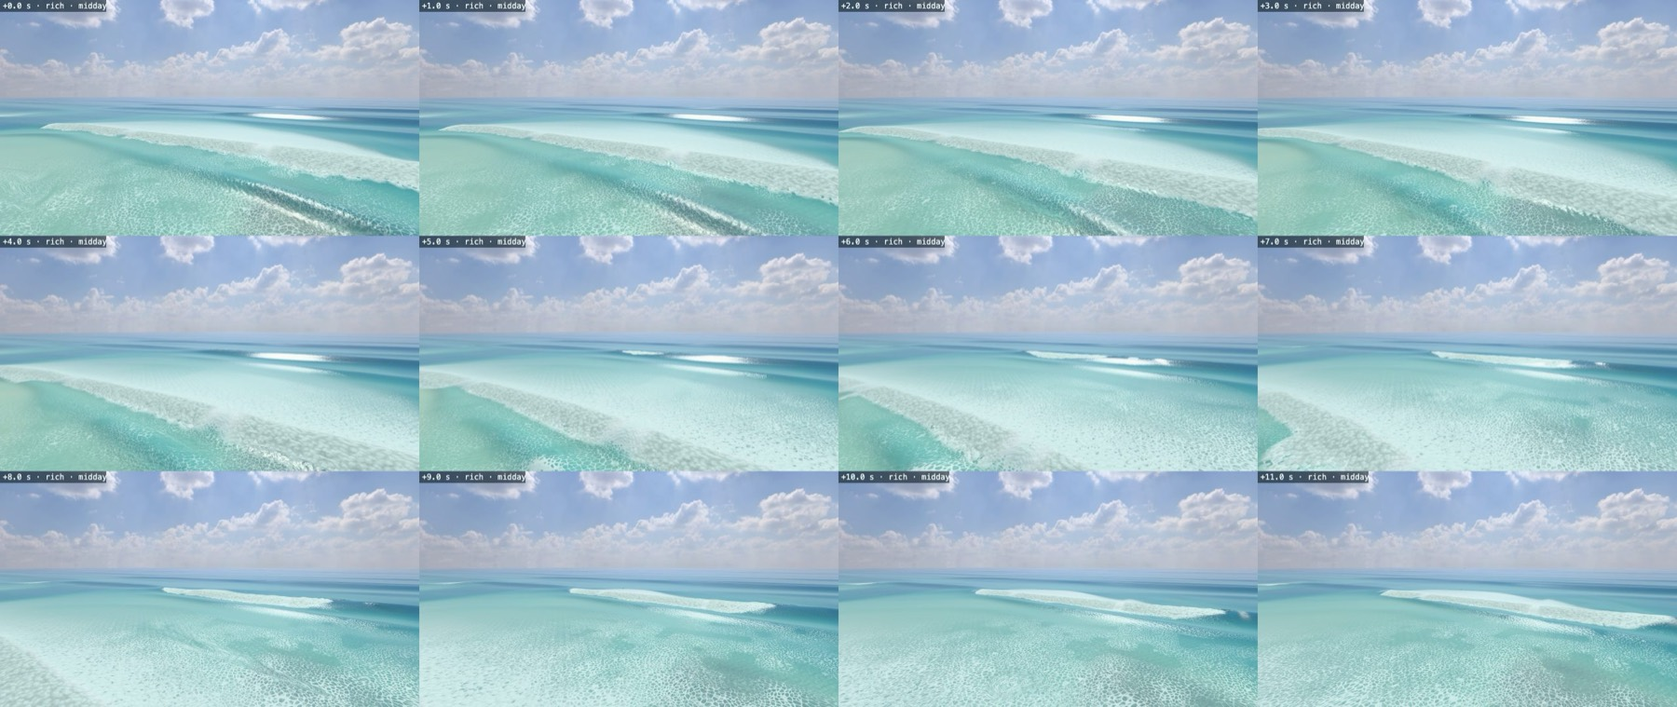
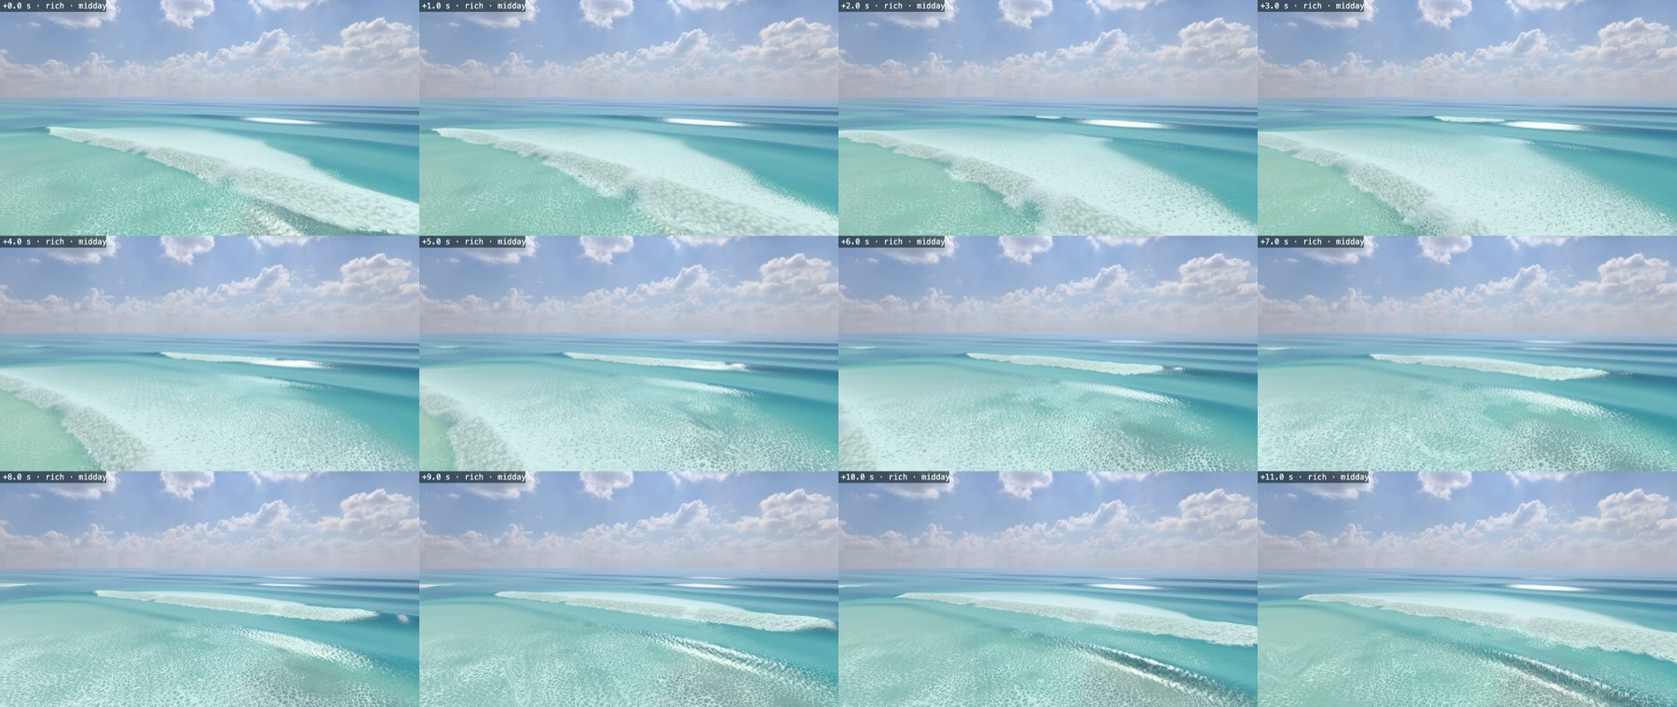
docs(canyon-b): the notes: frame by frame (one line into the bowl on 39 % of Medium's waves and 65 % of Big's, ξb 0.52–0.64 on the bowl, plunging over 20 m at Medium and 25–30 m at Big, spilling at Small), crests and health over 600 s, the catch against main, the cost (no second CFL substep), the st

diff --git a/docs/research/canyon-b-2026-11-01/README.md b/docs/research/canyon-b-2026-11-01/README.md
@@ -23,9 +23,13 @@ Switch: `?canyonBed=old` is main's Canyon at 376d9cd4, byte for byte. Online roo
   - steepest faces of 21–26°, against 14–21° on the arm;
   - ξb of 0.5 or more in 57–87 % of them, against 0–7 % on the arm.
 - **It plunges over 20 m at Medium and 25–30 m at Big** (u 60/65 to 85/95 from the tip). The owner asked for 15–25 m.
-- **The catch at the start** is unchanged: the bar's tip, the take-off and the start did not move. CATCH_PLACEHOLDER
-- **Crests and health over 600 s:** CREST_PLACEHOLDER
-- **Cost:** COST_PLACEHOLDER
+- **The catch at the start** is about main's: the bar's tip, the take-off and the start did not move. The probe's
+  riders caught 35 of 52 set tries on B and 39 of 52 on main (Medium, 2 seeds; Big, 1).
+- **Crests and health over 600 s:** the edge chevrons are main's; the crests are straighter where the reef was, and
+  bend over the bowl near the beach. More crests read two-sided in the inner band (6 % at Medium, 11 % at Big), where
+  main's report counted few whole crests; open. The water stays finite and slower than main's.
+- **Cost:** B's CPU step is about a third cheaper than main's Canyon on average (83 against 127 ms at Medium, stage 2,
+  this machine): its slower water never needs the solver's second CFL substep.
 - **The readout** gives the up-coast peak as "Spilling peak into a plunging reef bowl, left …° and right …°". The bowl's
   ξb at its own take-off is 0.56, 0.58 and 0.56 at Small, Medium and Big; the peak's tip reads 0.20–0.21, spilling.
 - **Other spots are byte-identical**, and `?canyonBed=old` is main's Canyon: the hashes and values match (below).
@@ -43,8 +47,9 @@ The consult is logged in `docs/research/water-physics/consult-log.md`.
   further out for each 0.1 m.
 - So a bowl can be on time for one wave height only. The advisor tuned it to the smallest wave that breaks on it
   (about 1.2 m), so the bowl never breaks before the peel arrives.
-- At Medium the bowl backs off about 1–3 s before it pitches, at Big 5–9 s. The alternative is to move it 10 m
-  seaward, so that Medium's sets are on time and its smaller waves 1–2 s early. That is the owner's call.
+- So bigger waves reach the bowl early: by the advisor's estimate the peel arrives 1–3 s before the bowl pitches at
+  Medium and 5–9 s before at Big, and the wave backs off meanwhile. The alternative is to move the bowl 10 m seaward, so
+  that Medium's sets are on time and its smaller waves 1–2 s early. That is the owner's call.
 
 **The bed** (`src/wave/Bathymetry.ts`: `CANYON`'s `reef` and `bowl*` keys, and `canyonBarDepth`'s `bowlProfile`):
 - **No reef terrace.**
@@ -159,22 +164,118 @@ one: it never vanishes for a frame and its end never jumps more than 6 m.
   - Big: u 60–85, **25 m** (seed 1), and u 65–95, **30 m** (seed 2), where the bowl's back-off still plunges.
   - Past u 95 the few onsets are the beach's 1:15 face in the channel's lee, not the bowl.
 
+**Small** (seed 1, `runs/small-s1.txt`): Small's waves, 1.1–1.35 m high at the bowl, break late, on its crest and top, and
+mostly spill.
+- One line reaches the bowl on 2 of 11 waves (u 55), its middle on 1 and its end on none.
+- The bowl breaks by itself on 6 waves, in lines of about 21 m.
+- Its onsets lie 1.20–1.26 m deep, on its crest and top: faces 22–25°, ξb 0.28–0.44 (19–32 % at 0.5 or more).
+- So at Small the up-coast peak is a spilling peak, and the bowl a small spilling section.
+
+**The drawn curl on the bowl** (`SpillingCurl`, the spilling lip the bowl draws with the tube off).
+- Each column's curl is sized by the bed it climbs at the sea's breaker depth h_b: 1.59, 2.25 and 3.43 m at Small,
+  Medium and Big.
+- At Big that depth lies seaward of the bowl's 3.0 m platform, on the bar's 1:50. The bowl's columns drew the bar's
+  0.23 H, though its waves break on the face.
+- Now the bowl's columns are sized no deeper than 0.2 m above the platform (`BOWL_FACE_BELOW_PLATFORM`, as the readout's
+  bowl take-off; `SpillingCurlOptions.breakerDepthAt`).
+- The curl stands 0.40 H over the whole bowl (u 70–85) at Medium and at Big. It is 0.23–0.25 H on the arm before it,
+  growing over the ramp. Small and Medium are unchanged; so are the other spots and `?canyonBed=old`.
+
 ## Crests and health (600 s; `scripts/crest-angle-report.ts`, seed 1, 64 components)
 
-CREST_SECTION_PLACEHOLDER
+`crests.txt`; main's are canyon-beach-break's `crests.txt` (its layout is `?canyonBed=old`'s). |angle| p90, °, by band
+across shore from the take-off: seaward of it; its 30 m; inside to halfway to the beach; the rest. Against the Beach's p90
+(2.6, 8.4, 10.4, 11.5°; its edge chevron 2 × p90). Station groups: the open water; the up-coast peak's −x arm (x −165 to
+−120); its +x arm, and on B the bowl (x −105 to −15; main's to −45); main's reef (x −30 to 45) or B's channel (x 0); the
+down-coast peak's arms (x 75–120 / 135–165).
+
+| Medium: main → B | Beach | Open | Up peak, −x arm | Up peak, +x arm (B: and bowl) | Reef → channel | Down peak, arms | Edge chevron −x / +x |
+| --- | --- | --- | --- | --- | --- | --- | --- |
+| seaward | 2.6 | 5.1 → 5.3 | 7.9 → 7.8 | 8.4 → 7.6 | 8.0 → 6.4 | 6.2 / 5.4 → 5.7 / 5.4 | 9.0 / 7.3 → 9.1 / 7.0 |
+| take-off | 8.4 | 8.7 → 7.2 | 11.2 → 11.5 | 13.1 → 10.7 | 16.7 → 7.1 | 12.9 / 6.1 → 6.8 / 5.9 | 13.7 / 7.4 → 12.9 / 6.9 |
+| inside | 10.4 | 16.6 → 14.7 | 19.9 → 19.8 | 21.4 → 18.1 | 25.6 → 14.8 | 23.5 / 14.3 → 16.5 / 13.6 | 21.4 / 20.5 → 22.3 / 19.3 |
+| inner | 11.5 | 17.6 → 15.2 | 23.8 → 23.6 | 20.6 → 25.2 | 30.4 → 15.9 | 20.9 / 19.8 → 20.9 / 19.0 | 23.1 / 23.8 → 22.3 / 21.2 |
+
+| Big: main → B | Beach | Open | Up peak, −x arm | Up peak, +x arm (B: and bowl) | Reef → channel | Down peak, arms | Edge chevron −x / +x |
+| --- | --- | --- | --- | --- | --- | --- | --- |
+| seaward | 2.6 | 5.0 → 5.3 | 8.0 → 8.1 | 7.1 → 6.8 | 6.2 → 6.4 | 5.8 / 4.8 → 5.8 / 4.8 | 11.6 / 6.4 → 11.5 / 6.4 |
+| take-off | 8.4 | 5.0 → 5.7 | 7.0 → 7.3 | 9.4 → 7.3 | 10.1 → 6.9 | 7.3 / 5.4 → 6.4 / 5.1 | 8.2 / 5.6 → 9.2 / 5.5 |
+| inside | 10.4 | 9.6 → 8.8 | 11.5 → 9.9 | 16.7 → 10.6 | 17.6 → 8.4 | 14.3 / 8.1 → 10.4 / 8.1 | 14.3 / 10.6 → 15.5 / 10.8 |
+| inner | 11.5 | 12.8 → 12.9 | 20.3 → 21.3 | 19.7 → 23.6 | 24.5 → 16.5 | 20.0 / 17.5 → 17.0 / 17.5 | 20.6 / 19.7 → 21.5 / 19.6 |
+
+- **The edge chevrons are main's** at both sizes (within 1°). Inside the take-off they are within the Beach's 2 × p90
+  (16.8, 20.8, 23°) but for Medium's −x edge in the inside band, 22.3° (main's 21.4°).
+- **With the reef gone, the crests are straighter** from the take-off line to halfway to the beach: the channel reads
+  7–15° p90 where main's reef read 10–26°, and the up-coast peak's +x arm 7–18° against main's 9–21°.
+- **Near the beach, over the bowl, they bend more:** the +x arm and bowl group reads 25.2° at Medium and 23.6° at Big in
+  the inner band, against main's 20.6 and 19.7° there. The bowl breaks, and its broken crest lags the water either side,
+  as main's reef did (its 30.4 and 24.5°).
+- **Crests from two sides** (the outer thirds of the window leaning opposite ways, each past 5°):
+  - seaward of the take-off line and inside it, 0–6 a band, as main's (Medium 1 of 800, 0 of 135, 1 of 235; Big 6 of
+    526, 1 of 130, 0 of 380);
+  - **in the inner band, more than on main:** 12 of 202 at Medium and 34 of 320 at Big, against main's 0 of 0 and 3 of
+    112. Main's report followed few whole crests across the window there; B's follows many more.
+  - The outer thirds' signed medians are near main's: Medium −8.6 / +1.6° (main −7.6 / +1.0°), Big −5.6 / +1.4° (main
+    −6.1 / −0.5°). So the typical crest's shape near the beach is main's, with the +x third leaning a little more.
+  - Not resolved here: whether the extra two-sided crests come from the channel (the 5 m floor where main's reef was)
+    or were there on main unseen. An open item for the owner's eye (the shot list).
+- **Health over the 600 s:**
+  - Medium: the fastest water 4.94 m/s (main 7.18); no Froude cap; volume 0.50 % (main 0.58 %); finite.
+  - Big: 7.01 m/s (main 8.42); 4 Froude caps, none in water (main none); volume −0.33 % (main −0.46 %); finite.
 
 ## The start and the catch
 
 **The take-off and the start did not move.** The up-coast bar's tip and its −x arm are unchanged, value for value:
 - `CANYON_TAKE_OFF_DEPTH` and `CANYON_RIDE_LINEUP` are as on main;
 - the starts lie 103, 134 and 183.5 m from the waterline at Small, Medium and Big;
-- so `SWELL_SURF.canyon` was not re-measured (the faces at the take-off are the same water).
+- so `SWELL_SURF.canyon` was not re-measured: the set faces at the start are within 0.02 m of main's (below).
 
-CATCH_SECTION_PLACEHOLDER
+**The catch** (`docs/research/canyon-catch-2026-10-29/catch-probe.ts --strokes feather`, B and `--bed old` on this
+branch; headless riders paddling for the waves from the default start, as canyon-catch; `runs/catch-*.txt`). Each cell:
+rides out of the tries. A ride is standing at least 2 s on the face ahead of the crest. The misses are all "no cue" or
+"left on the crest": no rider fell or was caught by white water on either bed.
+
+**Medium** (start 9 m out, 2.68 m deep, 134 m from the waterline; seeds 1 and 2 pooled):
+
+| Script | Sets: B | Sets: main | All waves: B | All waves: main |
+| --- | --- | --- | --- | --- |
+| good | 5 of 8 | 6 of 8 | 7 of 23 | 8 of 23 |
+| early | 6 of 8 | 7 of 8 | 9 of 23 | 9 of 23 |
+| late | 5 of 8 | 5 of 8 | 7 of 23 | 7 of 23 |
+| lift | 5 of 8 | 6 of 8 | 7 of 23 | 8 of 23 |
+
+**Big** (start 3 m out, 3.67 m deep, 183.5 m; seed 1):
+
+| Script | Sets: B | Sets: main | All waves: B | All waves: main |
+| --- | --- | --- | --- | --- |
+| good | 3 of 5 | 4 of 5 | 6 of 14 | 8 of 14 |
+| early | 5 of 5 | 4 of 5 | 8 of 14 | 8 of 14 |
+| late | 3 of 5 | 3 of 5 | 6 of 14 | 6 of 14 |
+| lift | 3 of 5 | 4 of 5 | 6 of 14 | 8 of 14 |
+
+- **About main's:** 35 of 52 set tries against 39 of 52. Medium's seed 2 is identical on both beds. On Medium's seed 1
+  and Big's, B's riders were left on the crest of one more set in good and lift.
+- The tip and its −x arm are main's. The +x arm at 32° is within 0.02 m of main's for 10 m from the tip, so the sea at
+  the start differs only slightly: the sets' faces there are 1.65, 1.60 and 2.30 m against 1.67, 1.62 and 2.29 m.
+- The rides look alike on both beds: the pop 0.95–1.25 s after the crest passes the start at Medium and 0.5–0.8 s at
+  Big, on a face of 14–19°, 0.6–0.9 of the way up.
+- canyon-catch's figures (2026-10-29: 25–50 % of sets) were on older code; both beds here run this branch's.
 
 ## Cost
 
-COST_SECTION_PLACEHOLDER
+`step-bench.ts` (canyon-beach-break's): the game's sea at Medium, 64 components, stage 2 on the CPU, 150 steps of 1/30 s
+after the spin-up, B and old alternately, twice each, on a quiet machine (`cost.txt`).
+
+| | Cells | Step p50 | Mean | p95 |
+| --- | --- | --- | --- | --- |
+| B | 400 × 451 | 83.1 and 82.8 ms | 83.2 and 82.9 ms | 83.4 and 83.3 ms |
+| old (main) | 400 × 451 | 161.8 and 160.4 ms | 127.4 and 126.4 ms | 162.4 and 161.3 ms |
+
+- **The grid and the fields are the same.** The difference is the solver's CFL substeps.
+  - Old's faster water (its rip and reef: 7.18 m/s at most over 600 s at Medium, against B's 4.94) needs two substeps
+    on about half its steps (71 of 150 in a check), B's on none.
+  - So B's step costs about a third less on average, and every step costs the same.
+- Neither threw a lip jet in the bench's 5 s.
 
 ## Strips (the water sheet, `?inpage&waterSheet&spot=canyon&swell=<size>&compute=gpu&graphics=ultra`, Rich, midday)
 
@@ -183,11 +284,13 @@ Each strip is 12 frames, one a second (`window.waterSheetStrip`).
   the middle, the channel at the far left. +x runs right to left, the beach is at the top.
   - `strip-medium-above.jpg`: a wave starts breaking at 2 s, at the tip and in a patch on the +x arm, which join by
     4 s. The line then runs down the arm, past the bowl's rock patch (7–9 s), and stops at the channel (10–11 s).
-  - `strip-big-above.jpg`: Big breaks further out, and its line spans the peak and the bowl.
+  - `strip-big-above.jpg`: Big breaks further out, and its line spans the peak and the bowl. Shot before the bowl's
+    drawn curl was sized on its face at Big (below); from 120 m up the curl's height does not show.
   - `strip-old-medium-above.jpg`: main's Canyon (`?canyonBed=old`) from the same eye, for comparison: the reef and its
     rip at the left, the bar's +x arm ending at the rip.
-- **From the start camera** (eye x −42, 16 m up, z −30, looking out at the tip): `strip-medium-start.jpg` and
-  `strip-big-start.jpg`. The bowl lies in the foreground on the left.
+- **From the start camera** (the spectator's overview, as canyon-beach-break's: 70 m beside and 95 m inshore of the
+  take-off, 16 m up, looking out at it): `strip-medium-start.jpg` and `strip-big-start.jpg`. The tip is left of
+  centre, far out; the bowl lies in the foreground on the right. The Big one was shot after the curl fix.
 
 ## The bowl's transect for the Basilisk cases
 
@@ -236,7 +339,22 @@ the 6 m foot at x −9) is gone. They still describe `?canyonBed=old`. New cases
 
 ## Tests
 
-TESTS_PLACEHOLDER
+No rider sessions; the catch probe's riders run outside the tests.
+- `tsc -b`: clean.
+- The main suite (`npx vitest run src --maxWorkers=3 --exclude "**/SurfZoneSimulation.test.ts" --exclude
+  "**/SurfZoneRunner.test.ts"`): 314 files passed, 30 skipped; 2980 tests passed, 20 expected to fail, 36 skipped.
+- `SurfZoneSimulation.test.ts -t "[Cc]anyon|[Bb]arrel|[Tt]ube|[Bb]oard|[Rr]ider|[Ss]urfer|[Rr]oller|[Pp]addl|[Dd]uck|[Ss]wim"`:
+  27 passed, 77 skipped by the filter (1299 s).
+- New and changed tests:
+  - `Bathymetry.test.ts`: version B's bed (the tip and −x arm unchanged, the arm's angle, the bowl's transect, its
+    platform, back-off, channel, rock, span and peel) and its breaking rules. The reef's tests run on `CANYON_BEACH`.
+  - `SpillingCurl.test.ts`: the bowl's curl stands 0.40 H over the whole bowl at Medium and Big. The reef's curl tests
+    run on the old layout.
+  - `SurfZoneSimulation.test.ts`: main's Canyon rebuilt value for value on `?canyonBed=old`; the bowl's take-off on its
+    face; the reef's tube, take-off and shoulder tests on the old layout.
+  - `waveInfo.test.ts`: the readout's "Spilling peak into a plunging reef bowl".
+  - `rockBed.test.ts`: rock on the bowl, sand on the bars and the channel; the old layout as before.
+  - `OnlinePlay.test.ts`: the old layout's starts.
 
 ## Risks and open items
 
@@ -246,12 +364,29 @@ TESTS_PLACEHOLDER
   - a steeper arm beyond u 25 (more breaking there, a faster peel);
   - or the bowl 10 m seaward (the advisor's alternative: Medium's sets on time, its small waves 1–2 s early).
 - **Big's line is long, and its bowl plunges over 25–30 m**, at the top of the owner's 15–25 m.
+- **The readout at Small** names a plunging bowl (ξb 0.56 at its take-off on the face), but Small's waves break on its
+  crest and top, where they spill or barely plunge (0.28–0.44 measured). The readout reads every peak at one point, as
+  the other spots' do.
 - **The tube is off** at the Canyon. The bowl draws the spilling curl and the white water; its transect is fixed above
   for the Basilisk cases.
 - **The rip current** in the channel beside the bowl (0.3–0.7 m/s, the advisor's inference) is not measured.
-- **Small** was not run frame by frame. The bowl is tuned to its sets: about 1.2 m waves break on it, and smaller ones
-  pass over it.
 
 ## Shot list for the owner
 
-SHOTLIST_PLACEHOLDER
+The Canyon, the default start (the up-coast peak), Rich water. The bowl is on the readout's left arm: ride left, toward
++x and the down-coast peak.
+
+1. **Medium, ride the left into the bowl.** Take off at the start and go left down the line. Record:
+   - whether the white runs ahead of you down the arm and on into the bowl (its dark rock patch) with no gap;
+   - whether the wave stands up and pitches on the bowl, and where it backs off at the channel;
+   - on waves where the arm's white stops, how the bowl breaks on its own a few seconds later.
+2. **The same at Big.** The line should run the whole way more often; the bowl plunges over a longer stretch.
+3. **The same at Small.** The bowl should only spill there; say whether that reads right.
+4. **`?canyonBed=old` at Medium**, the same ride, for A/B: main's arm ends at the rip, and the reef breaks on its own,
+   seaward.
+5. **Paddle out and sit at the start** (Medium and Big) for a few sets: is it as easy to catch as main's?
+6. **Crests near the beach:** from the start camera, watch the crests reaching the beach either side of the bowl and the
+   channel. Do any look as if they come from two sides at once? (The report counts more than on main there.)
+7. **The readout** (the HUD and the Wave Lab) on the up-coast peak: "Spilling peak into a plunging reef bowl" at Medium
+   and Big; at Small it says the same, though the bowl only spills there.
+8. **The look:** rock on the bowl and sand on the bars and the channel; the down-coast peak's A-frame as before.

diff --git a/docs/research/water-physics/consult-log.md b/docs/research/water-physics/consult-log.md
@@ -4,7 +4,7 @@ What other sessions asked about wave shape, the advice they got and what came of
 
 | Date | Session | Question | Advice and outcome |
 | --- | --- | --- | --- |
-| 2026-11-01 | Canyon B (claude/canyon-b, live consult: the owner's version B, the upcoast beach peak's +x arm peeling into a reef bowl) | The bowl's planform against the bar arm's break line, so it breaks after the peel arrives at every size; its transect for ξb 0.5–0.8 without the deep face breaking the waves early; the bar-to-bowl transition and the channel; what to do with the old reef; the risks in this model | **Constraint:** on the arms the white travels by rule A's age at the visible 37–47°, so the peel reaches u 55 m (x −57) on the bar's 1.45 / 2.05 / 3.0 m contours (Small / Medium / Big, z −36 / −65 / −110 ±10); a steep bowl breaks within ~2 m per 0.1 m of height, so it can be on time for one height only: tune it to the smallest wave breaking on it (Hb ≈ crest depth ≈ 1.2 m), Medium then backs off ~1–3 s and Big 5–9 s before it pitches (alternative for the owner: 10 m seaward, Medium's sets on time, its small waves 1–2 s early). **Planform:** the crest line on the bar's 1.9 m contour (z −58 at x −57), keeping the arm's 40° (≤ 45°; Walker's 30° minimum peel for a 6 ft plunger; riders need c/sin α, 9–10 m/s at Medium, 11–13 at Big, against 9.3 mean and 12.5 max, Farley 2012); concavity ≤ 0.5 m over the bowl (a focus would make it the take-off). **Transect:** the bar's 1:50 to 3.0 m; a platform level at 3.0 m for ~17 m (Mead & Black's, just deeper than breaking); a knee rounded ±4 m; a 1:21 face along +z (1:16 normal to the contours) 38 m wide to a 1.2 m crest (sweep 1.1–1.3; Small's sets pass over); a top 8–10 m level then 1:30 down to the bar, no lagoon. ξb along +z 0.53–0.56 Medium, 0.53–0.58 Big (along the ray 0.62–0.67). **Along shore (u from the tip):** the arm as it is to u 50; the bowl ramping in over 10 m; whole u 60–75; the crest deepening 1.2→2.0 m over u 75–83 (the wave backs off); bar and bowl fading into the floor over 15 m; the channel the plain 5 m floor to the downcoast arm (never deeper: deeper water would lead the crests round the bowl's end). **Reef:** move it (the bowl inherits its rock, 0.65 onset, 0.5 gate, readout and front), remove the rest. **Risks:** a caustic at the bowl's +x end in a linear ray trace (first breaks must get later steadily along x at every size); the onset/gate from u 50 to the 4.5 m contour, blended ≤ 5 m on the arm's side (rule A on the approach spills Big; the gate may pause Medium at the junction); Big's back-off may read as a gap; the channel's rip (0.3–0.7 m/s inferred). Sources: Mead & Black via Scarfe et al. 2003, Mead 2000 Table 3.3, Walker 1975, Farley et al. 2012. Outcome: built as advised (`CANYON` version B, `bowl*` keys); measured in docs/research/canyon-b-2026-11-01. |
+| 2026-11-01 | Canyon B (claude/canyon-b, live consult: the owner's version B, the upcoast beach peak's +x arm peeling into a reef bowl) | The bowl's planform against the bar arm's break line, so it breaks after the peel arrives at every size; its transect for ξb 0.5–0.8 without the deep face breaking the waves early; the bar-to-bowl transition and the channel; what to do with the old reef; the risks in this model | **Constraint:** on the arms the white travels by rule A's age at the visible 37–47°, so the peel reaches u 55 m (x −57) on the bar's 1.45 / 2.05 / 3.0 m contours (Small / Medium / Big, z −36 / −65 / −110 ±10); a steep bowl breaks within ~2 m per 0.1 m of height, so it can be on time for one height only: tune it to the smallest wave breaking on it (Hb ≈ crest depth ≈ 1.2 m), Medium then backs off ~1–3 s and Big 5–9 s before it pitches (alternative for the owner: 10 m seaward, Medium's sets on time, its small waves 1–2 s early). **Planform:** the crest line on the bar's 1.9 m contour (z −58 at x −57), keeping the arm's 40° (≤ 45°; Walker's 30° minimum peel for a 6 ft plunger; riders need c/sin α, 9–10 m/s at Medium, 11–13 at Big, against 9.3 mean and 12.5 max, Farley 2012); concavity ≤ 0.5 m over the bowl (a focus would make it the take-off). **Transect:** the bar's 1:50 to 3.0 m; a platform level at 3.0 m for ~17 m (Mead & Black's, just deeper than breaking); a knee rounded ±4 m; a 1:21 face along +z (1:16 normal to the contours) 38 m wide to a 1.2 m crest (sweep 1.1–1.3; Small's sets pass over); a top 8–10 m level then 1:30 down to the bar, no lagoon. ξb along +z 0.53–0.56 Medium, 0.53–0.58 Big (along the ray 0.62–0.67). **Along shore (u from the tip):** the arm as it is to u 50; the bowl ramping in over 10 m; whole u 60–75; the crest deepening 1.2→2.0 m over u 75–83 (the wave backs off); bar and bowl fading into the floor over 15 m; the channel the plain 5 m floor to the downcoast arm (never deeper: deeper water would lead the crests round the bowl's end). **Reef:** move it (the bowl inherits its rock, 0.65 onset, 0.5 gate, readout and front), remove the rest. **Risks:** a caustic at the bowl's +x end in a linear ray trace (first breaks must get later steadily along x at every size); the onset/gate from u 50 to the 4.5 m contour, blended ≤ 5 m on the arm's side (rule A on the approach spills Big; the gate may pause Medium at the junction); Big's back-off may read as a gap; the channel's rip (0.3–0.7 m/s inferred). Sources: Mead & Black via Scarfe et al. 2003, Mead 2000 Table 3.3, Walker 1975, Farley et al. 2012. Outcome: built as advised (`CANYON` version B, `bowl*` keys) with three measured changes: the +x arm and bowl at 32° (the line reached 40 m on 9 of 15 waves against 6 at 40°), the bowl 5 m further along (ramping u 55–65, whole to 80, backing off 80–88), and a 1:18 face (1:21 measured ξb 0.43–0.52 at the bowl's onsets at Medium, its waves 1.2–1.9 m high; 1:18 reads 0.52–0.64 at Medium and Big). One line from the tip into the bowl on 39 % of Medium's waves and 65 % of Big's (to its end 18 and 52 %); the bowl plunges over 20 m at Medium and 25–30 m at Big; at Small it spills (ξb 0.28–0.44). The drawn curl is sized on the face at every size (Big's sea breaks deeper than the platform). Measured in docs/research/canyon-b-2026-11-01. |
 | 2026-10-31 | Spray rework (claude/spray-rework; the owner's reference: Mikey February's carve, a 2–3 m feathery fan, a foam line) | Why our fan tops out under a metre; the drops' sizes, how many to draw and how opaque; the mist; whether the root should be white and N_t move; the carve's foam line | (1) A 2–3 m top needs vy ≈ 8 m/s for 2–3 mm drops (quadratic drag); κ 0.8, the 8° tilt, the root angle and the water's rise are sound. The shortfall is the per-side mean hiding the tail's faster jet (spawn per station, same water), then the riding: pros turn 200–300°/s (US 9697743), a soft yaw throws a low fan (the owner's call; don't fake it in the spray). (2) N(d) ∝ d⁻² to a knee of 1 mm (fast) – 2 mm (slow, thick), d⁻⁶ past it, capped at min(6 mm, 12σ/ρ_a U²) (Erinin 2023); 80 streaks/kg; opacity from optical depth τ = 1.5 m/(ρ A r) over a bundle spreading 0.15 U/s either side; 1/60 s streaks. If the fan reads too white, that is #170's unmeasured mass. (3) Mist 4 % of the water at 0.2 mm, drag time 0.07 s, formed 0.1–0.3 s out, 1.5–3 s puffs growing to 1 m, HG g 0.86. (4) White at the rail from the torn cloud's optical depth once the jet is fast, and the exposure smearing the rough sheet's glints (inferred); not aeration on a green face; N_t stays 2.5. (5) Foam line 0.3–0.5 m wide, ∝ ṁ/V, dense while its bubbles rise (D/0.25 m/s), a 15 % lace for 5–10 s. Built so (`wave/boardFan.ts`, `scene/BoardFanMesh.ts`, the root's fit in `physics/boardSpray.ts`): the tail's apex in a hard turn 1.7–2.0 m (vacuum) against the mean's 1.0–1.5; the game's turns peak at 75–147°/s (docs/research/spray-rework-2026-10-31) |
 | 2026-10-30 | Spray sheet (claude/spray-sheet; live consult and a follow-up) | The owner's "more realistic" spray: a clear curtain of water off the rail that tears into the drops. When does it tear, how thick, how it looks, where it should not show | Turbulent rail sheet torn by the air's flapping (Squire 1953): t_b = N_t / n from the rail, N_t 2.5 (provisional; smooth nozzle sheets need 12–13, Clark & Dombrowski), clamped 0.01–0.3 s; a line source (no 1/r thinning), h0 = ṁ / (ρ L (U − U_hull)·n̂), break-up from the speed through the air; fingers 10πσ/(ρ_a U²) apart from about 0.55 of the flight (Gaillard, Sijs & Bonn 2021); about 96 % transmission face-on, never mirror-glassy; 20–25 % shed before the tear, bigger drops at it; draw from a history of launched rows; none under 0.08 m of reach, 1 mm, or a jet share of 0.5 (Kooij 2018; Villermaux & Clanet 2002; Dai, Hsiang & Faeth 1997; arXiv 2510.19198). Follow-up: Dai's wall-jet onset does not apply to spray-root water (its boundary layer is 2.5–6 mm after the run against 4–8 cm sheets); it had been put in series by mistake, so it is only the first drops now. The 4–8 cm sheets follow from 2D+t with the rail buried 0.2–0.25 m; their mass is unmeasured, an owner's call on volume. The curtain's length |U − U_hull|·t_b is right: a trail along the path. Built so (`physics/boardSpray.ts`, `scene/SpraySheetMesh.ts`): curtains 0.6–0.9 m in the compressed turns (t_b 0.12–0.14 s), the slow turns reach the 0.3 s clamp (2–3 m/s through the air). Open: N_t against footage, the blister wing, the root's aeration (docs/research/spray-sheet-2026-10-30) |
 | 2026-10-29 | Board spray (claude/board-spray; read-only consult) | The spray a planing board throws: the spray root, the sheet's speed and water, the drops, the mapping to drawn particles, where it leaves | Wagner's 2D+t jet with Savitsky's root angle, Zhao & Faltinsen's pile-up k(β) and Savitsky & Breslin's measured κ 0.8; the flat case is the measured side blister, not a forward jet; water k/(4 cos β)·ρ·W·D_rail; 6–8 drawn per kg; drift makes the height, load the mass; no spray off the low rail. Built so (`physics/boardSpray.ts`); Classic and the pool reserve were the owner's calls: drawn in both looks, a 512 pool of its own |
